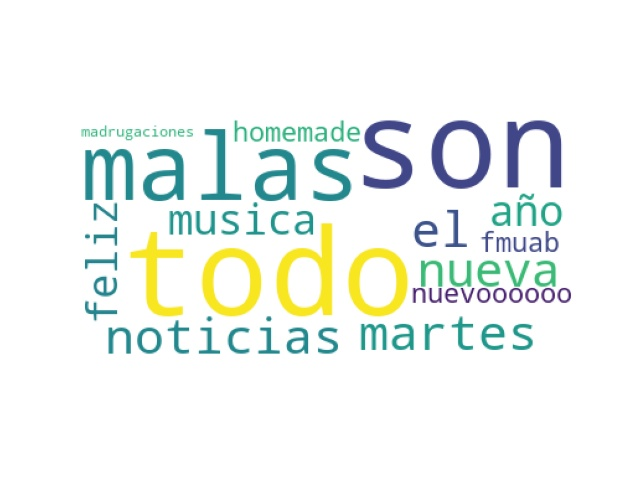
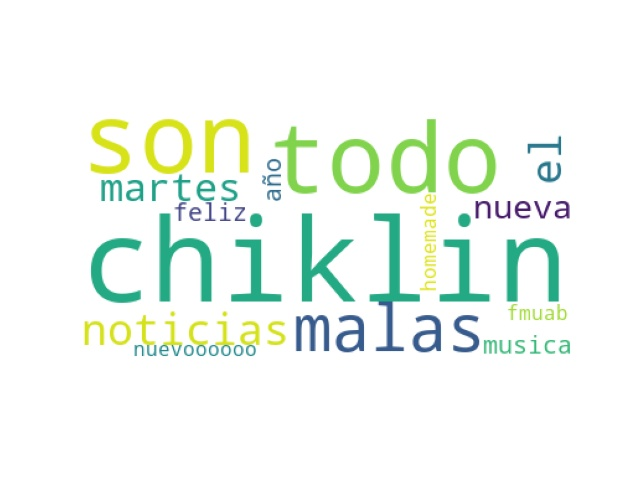
Opciones avanzadas twitter

Changed region(s): [[0.125, 0.2188, 0.9062, 0.75]]

diff --git a/Webpage/Templates/Child/form.html b/Webpage/Templates/Child/form.html
@@ -9,21 +9,18 @@
                oninvalid="this.setCustomValidity('Ingresa un usuario del formato: @usuario')"
                pattern="@([A-Za-z0-9_]{1,15})">
 
-        <div class="form-check">
-            <input class="form-check-input" type="checkbox" value="" id="flexCheckDefault" >
-            <label class="form-check-label" for="flexCheckDefault">
-                Opciones avanzadas de búsqueda
-            </label>
-        </div>
-
         {% else %}
         <input type="text" name="word" placeholder="Introduce texto" required="required">
-        <input type="text" name="number" placeholder="Numero de posts" required
-               oninvalid="this.setCustomValidity('Ingresa un número de posts a analizar')"
-               pattern="(?:[0-9]{1,2}|100)$">
-        {% endif %}
-        <div id ="dates" class="row_date mt-1">
 
+
+        {% endif %}
+        <div id="dates" class="row_date mt-1">
+            <div class="form-check">
+                <input class="form-check-input" type="checkbox" value="" id="flexCheckDefault">
+                <label class="form-check-label" for="flexCheckDefault">
+                    Opciones avanzadas de búsqueda
+                </label>
+            </div>
         </div>
 
         <button type="submit" name="twitter" class="btn btn-outline-primary mt-1">Predecir</button>

diff --git a/Webpage/webpage.py b/Webpage/webpage.py
@@ -74,17 +74,20 @@ def predict():
         # For rendering results on HTML GUI
         input_text = request.form['word']
         input_number = 20 #Tweets a descargar por defecto
+        input_date_start = ''
+        input_date_end = ''
 
-        if 'number' in request.form:
+        if 'number'in request.form:
             input_number = int(request.form['number'])
+            input_date_start = request.form['start']
+            input_date_end = request.form['end']
 
 
         if 'twitter' in request.form:
             from Twitter import test_tweets as tt
 
 
-            input_date_start = request.form['start']
-            input_date_end = request.form['end']
+
 
             prediction, tweets = tt.main(input_text, input_number,input_date_start,input_date_end)
             encoded_img_data = wordcloud(tweets)
